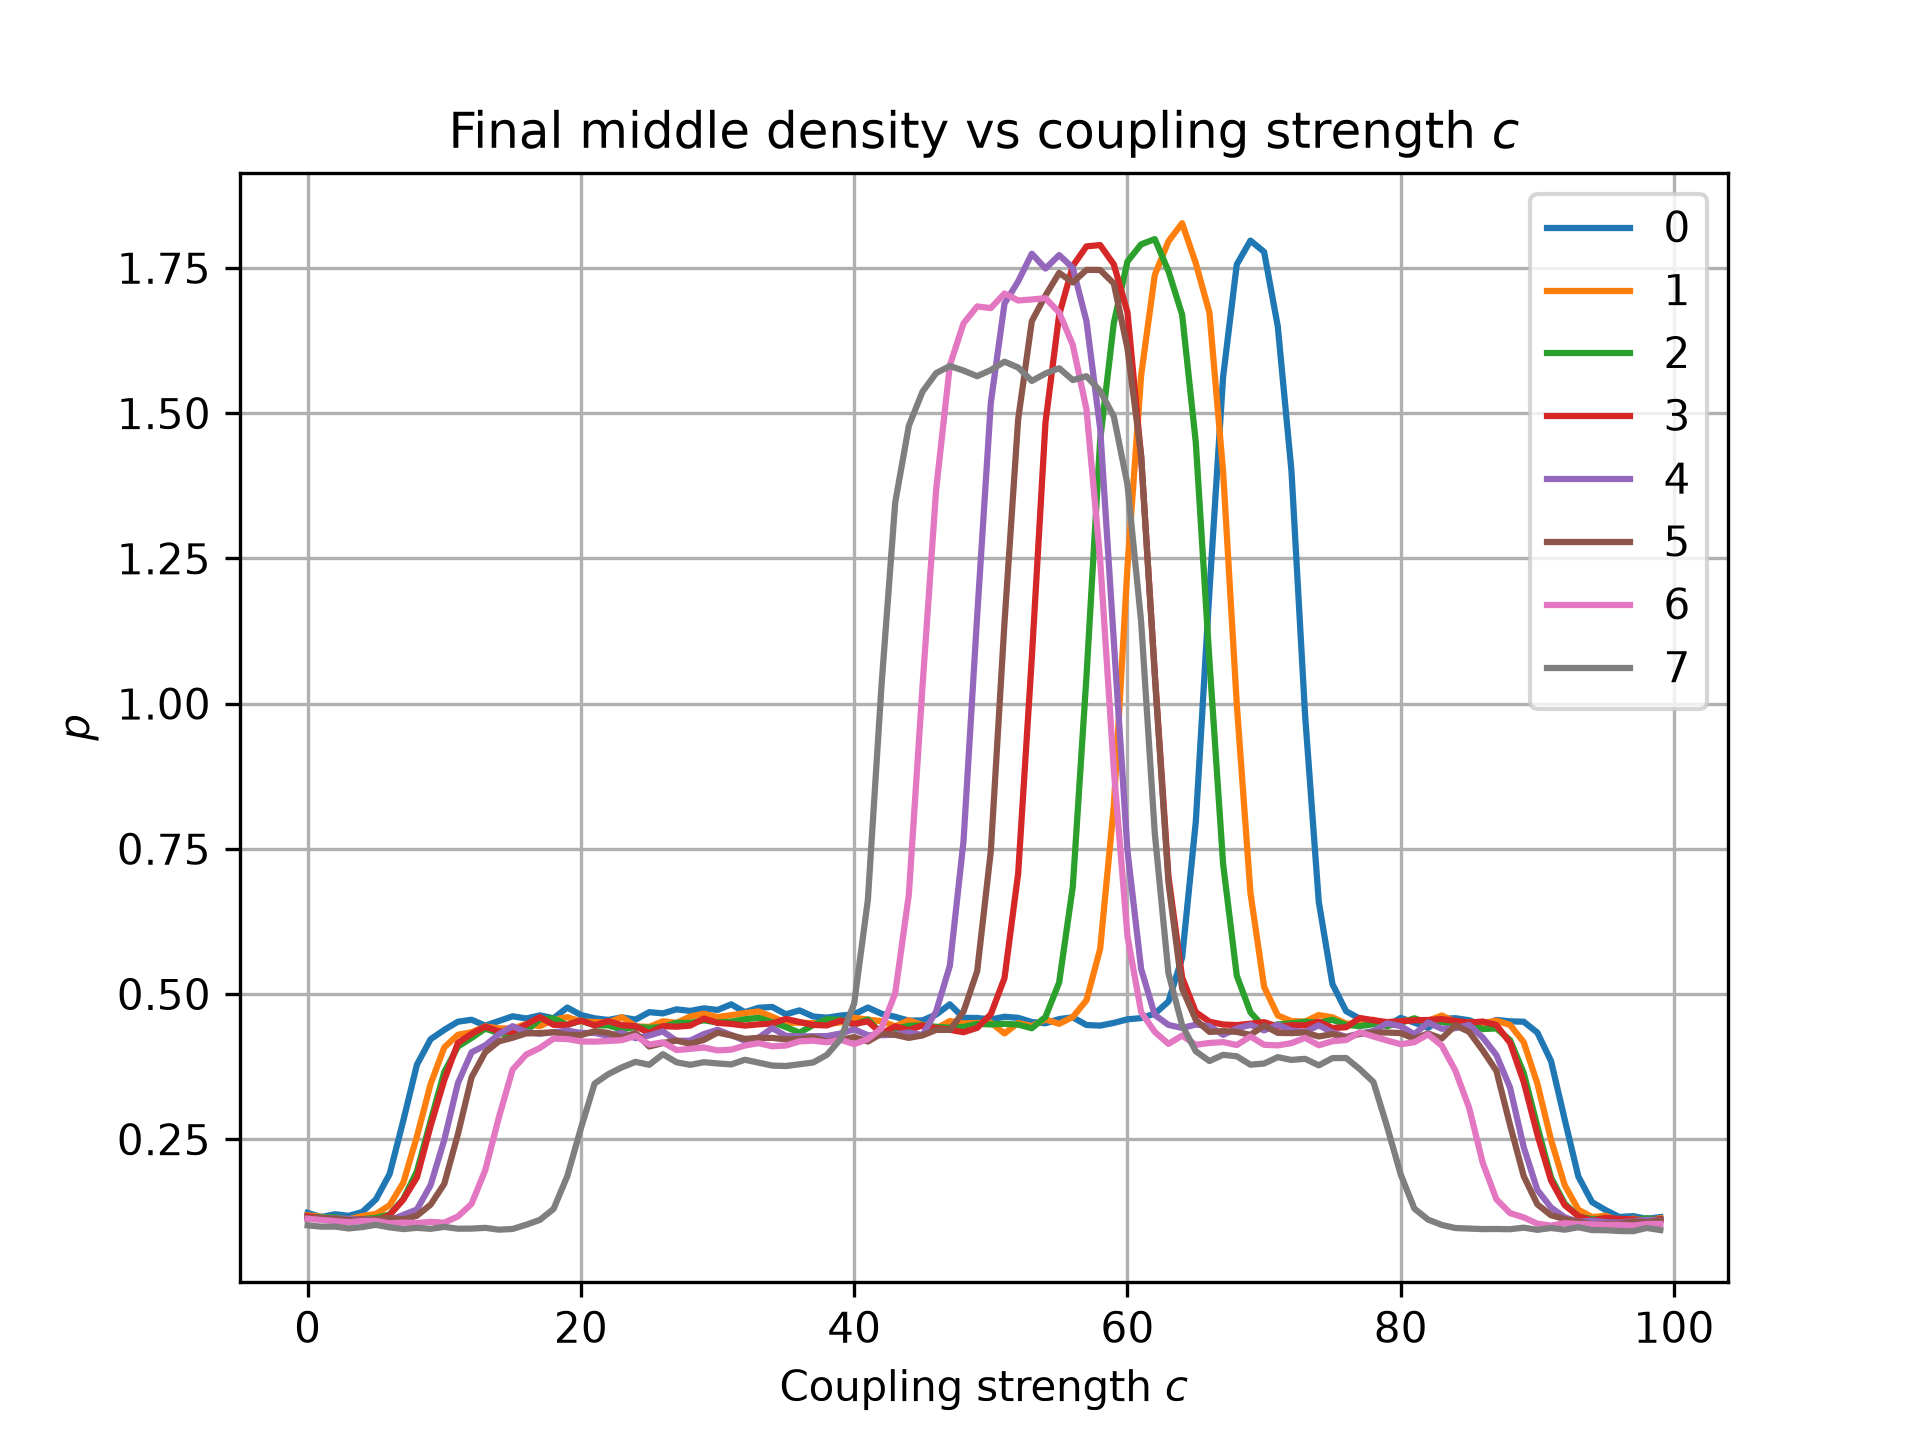
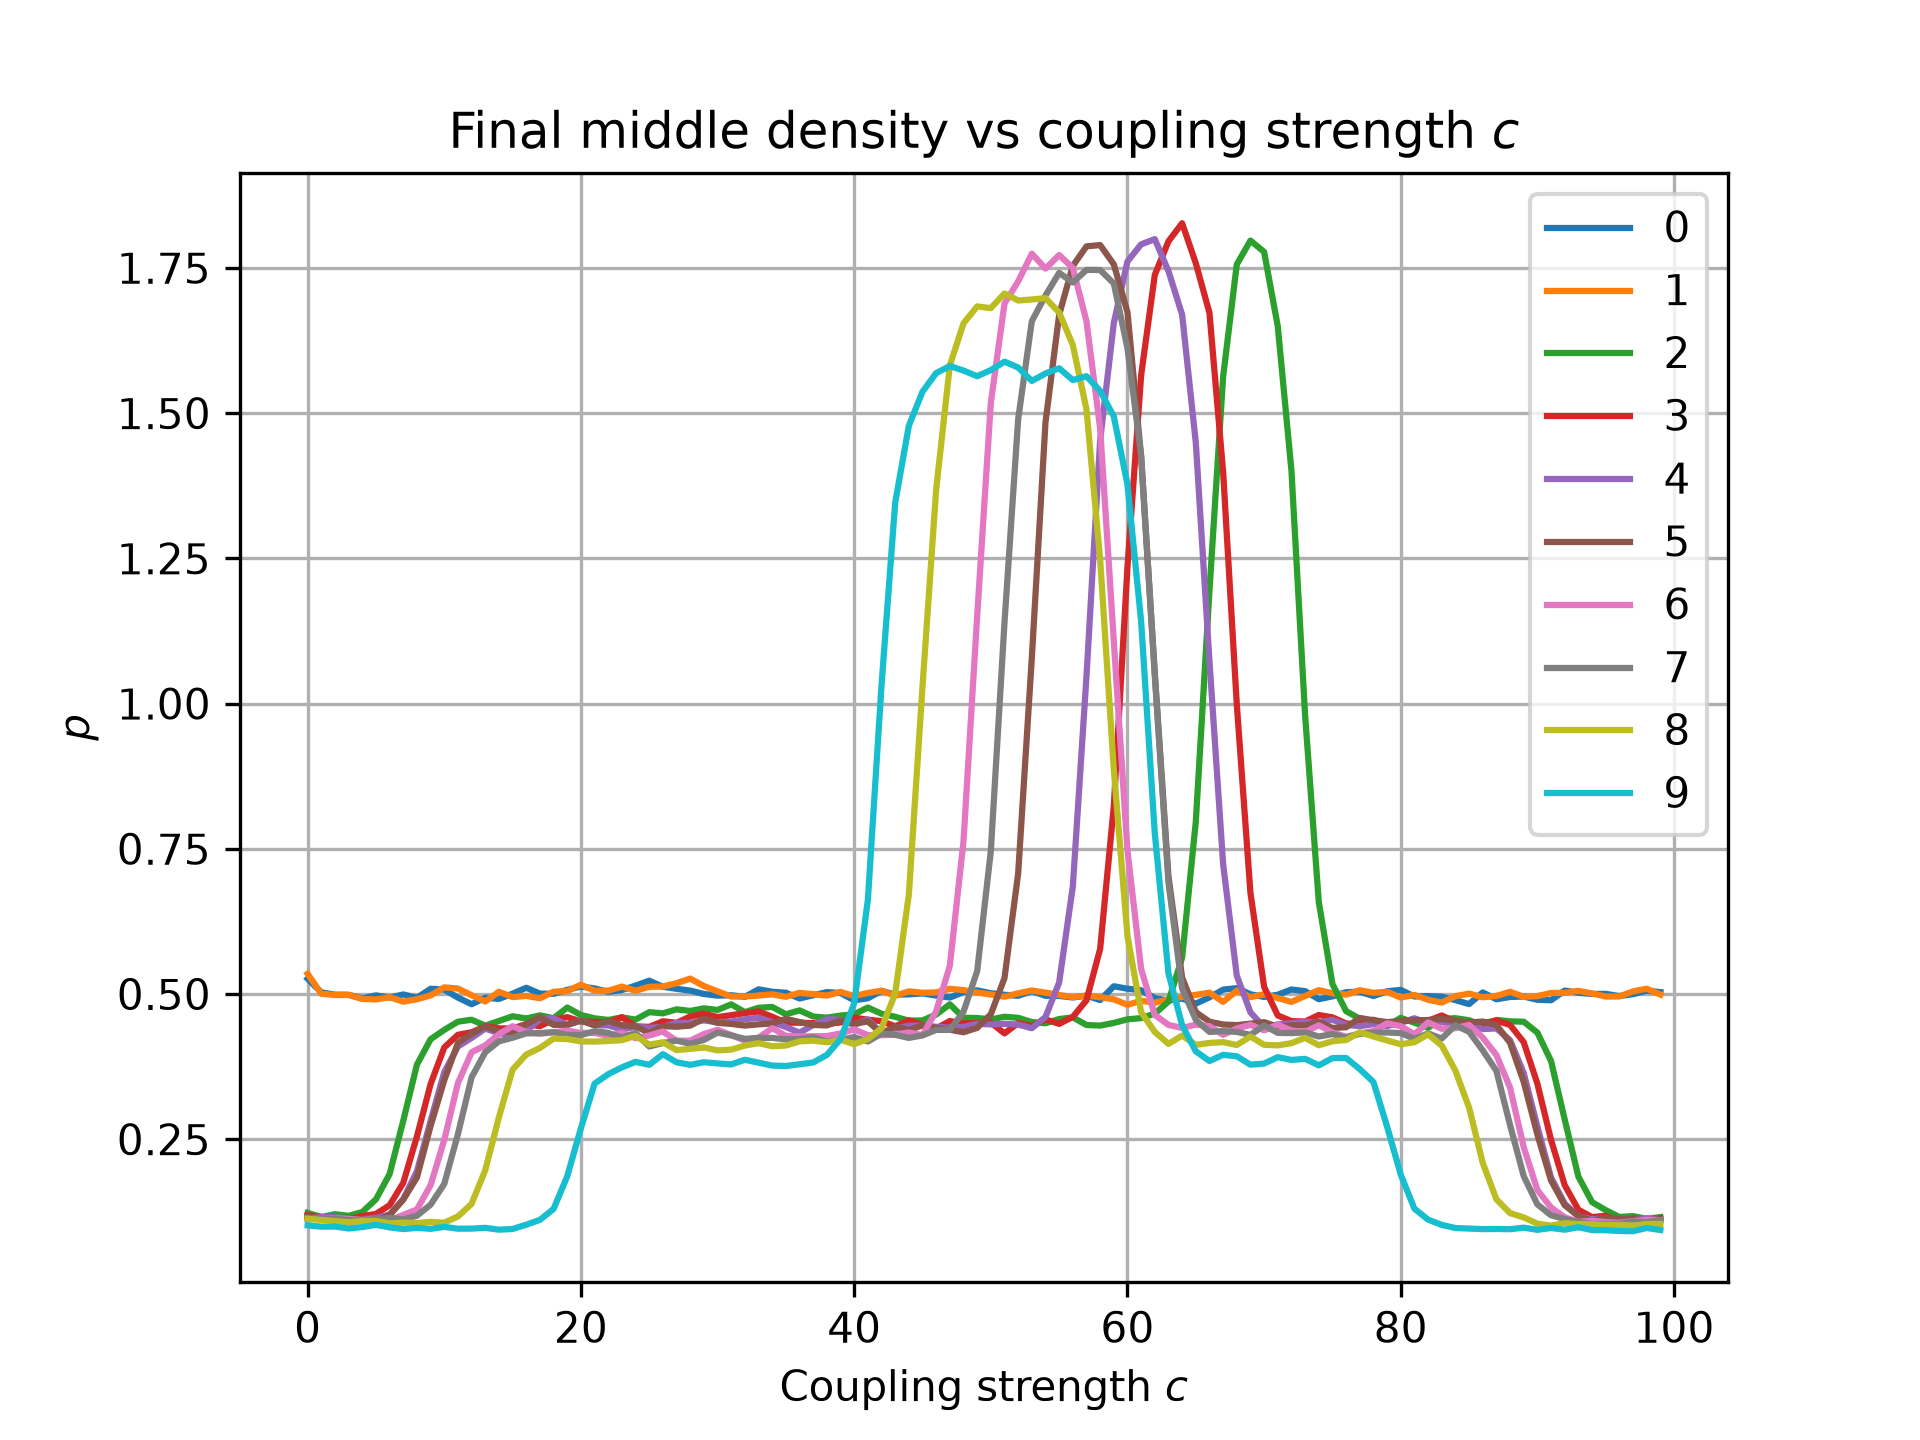
add no-demixing data points to first further analysis plots

Changed region(s): [[0.1562, 0.1562, 0.875, 0.875], [0.7812, 0.4688, 0.9062, 0.5938]]

diff --git a/further_analysis.py b/further_analysis.py
@@ -19,8 +19,7 @@ def get_last_mean_densities(run_name, n_realizations, n_last_rows=10):
 
     # normalize and drop first element (timestep index)
     last_densities = [
-        counts[1:] / (n_realizations * BIN_WIDTH)
-        for counts in last_counts_rows
+        counts[1:] / (n_realizations * BIN_WIDTH) for counts in last_counts_rows
     ]
     densities = {
         "A_species": np.mean(last_densities[0::3], axis=0),
@@ -77,35 +76,35 @@ def get_level_widths(density):
 
 
 def main():
-    c_vals = [5, 5.2, 5.3, 5.33, 5.5, 5.6, 6, 7]
-    run_names = [
-        f"pow_sym_ref_init-dem_q2_c{c_val}_dt1e-05_"
-        f"nr100000_rs0_bins100_cnts-step1000"
-        for c_val in c_vals
-    ]
-    orders = []
-    middle_widths = []
+    c_vals = [3, 4, 5, 5.2, 5.3, 5.33, 5.5, 5.6, 6, 7]
+    orders = [0.0, 0.0]
+    middle_widths = [1.0, 1.0]
     spreads_rows = []
     mid_densities = []
-    for run_name in run_names:
+    for c_val in c_vals:
+        run_name = (
+            f"pow_sym_ref_init-dem_q2_c{c_val}_dt1e-05_"
+            f"nr100000_rs0_bins100_cnts-step1000"
+        )
         print(f"Calculating run {run_name}")
         densities = get_last_mean_densities(run_name, 100000)
-        mid_density = []
-        for species, density in densities.items():
-            peak_position = assign_peak_position(density)
-            if peak_position == "center":
-                print(f"Center peak assumed by {species}")
-                mid_density = density
-
-        order = calculate_order_parameter(mid_density)
-        middle_width = get_level_widths(mid_density)[1]
-        spreads = get_level_widths(mid_density)[3]
-        orders.append(order)
-        middle_widths.append(middle_width)
-        spreads_rows.append(spreads)
+        mid_density = densities["B_species"]
         mid_densities.append(mid_density)
 
-    
+        # for species, density in densities.items():
+        #     peak_position = assign_peak_position(density)
+        #     if peak_position == "center":
+        #         print(f"Center peak assumed by {species}")
+        #         mid_density = density
+
+        if c_val not in [3, 4]:
+            order = calculate_order_parameter(mid_density)
+            middle_width = get_level_widths(mid_density)[1]
+            spreads = get_level_widths(mid_density)[3]
+            orders.append(order)
+            middle_widths.append(middle_width)
+            spreads_rows.append(spreads)
+
     plt.plot(c_vals, middle_widths, "-o")
     plt.title("Normed total width of middle density $p_{mid}$")
     plt.xlabel("Coupling strength $c$")

diff --git a/todos.md b/todos.md
@@ -262,12 +262,12 @@ tags: []
     - [x] find a way to identify the x-position of the interfaces!
 - [ ] (asymptotic) rolling time average and define some criteria for convergence
        - [x] for now just take the last rows average
-       - [ ] ideally: calculate a rolling delta over multiple (averaged) rows (how many)
+       - [x] ideally: calculate a rolling delta over multiple (averaged) rows (how many)
              and check when it's not changing much anymore
     
 - [ ] put all together
     - [ ] do not only consider middle density but average order and widths over all three
-    - [ ] add points with fewer than 3 densities or no demixed final state to the plots
+    - [x] add points with fewer than 3 densities or no demixed final state to the plots
     - [x] need to figure out which counts are for the middle interface, it's not
           always A species -> density maximum between -0.5 and 0.5
     - [x] plot averaged densities
